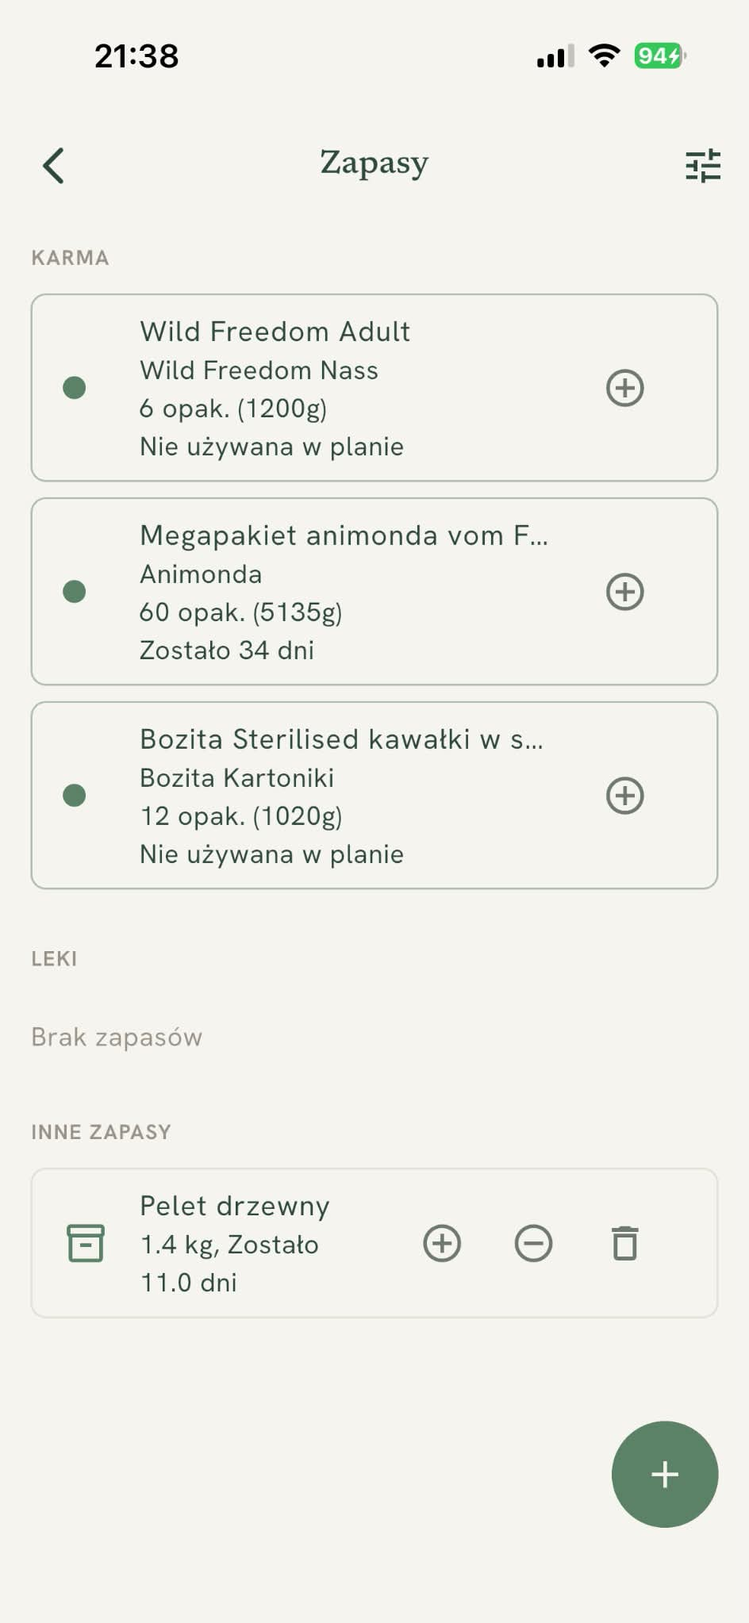
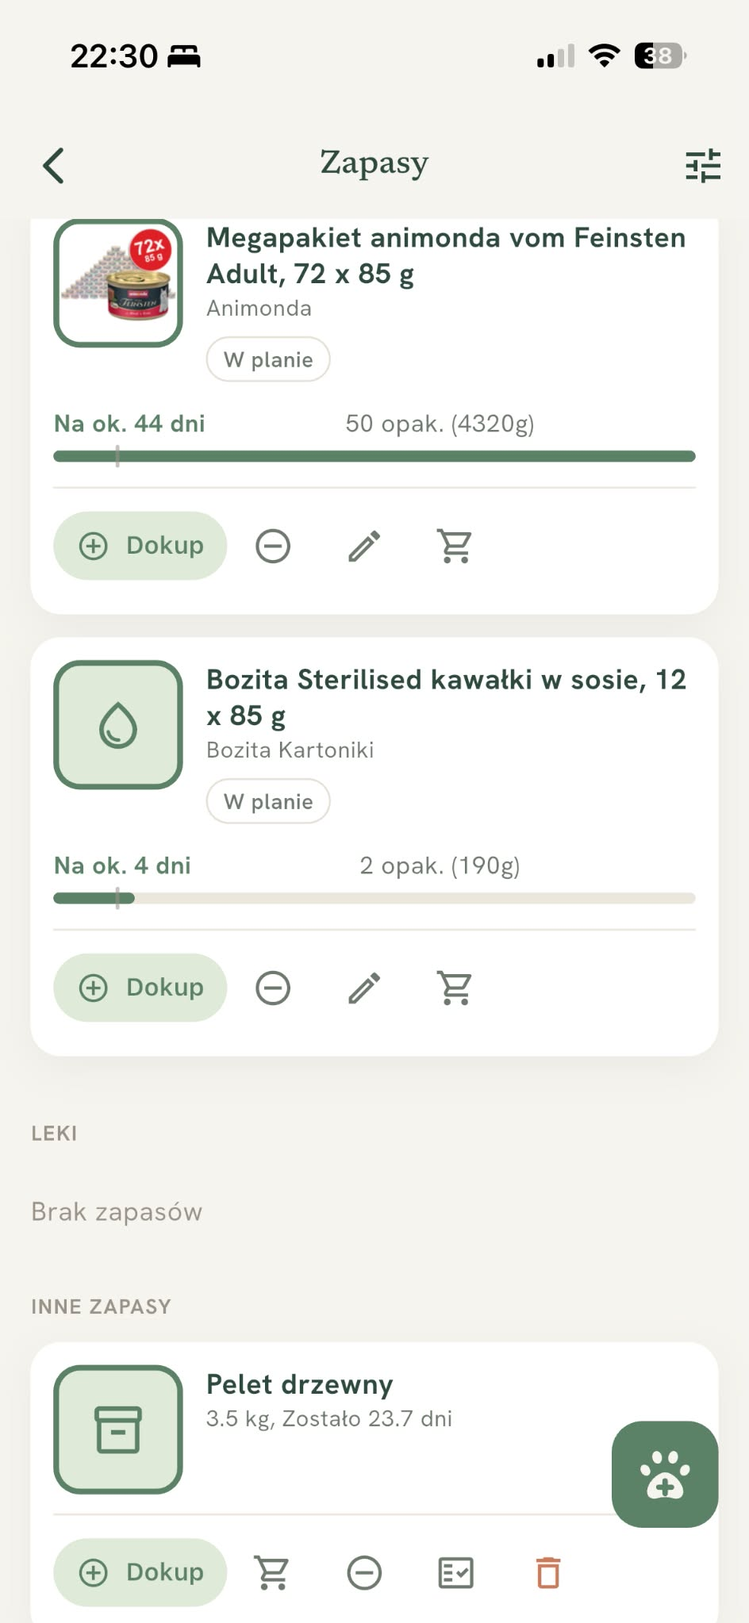
feat: strona główna: nowe teksty kafli i sytuacji, tropy łapek wzdłuż strony, Czesia od kociaka, nowy zrzut zapasów

diff --git a/index.html b/index.html
@@ -236,7 +236,7 @@
       position: absolute; left: var(--x); top: var(--y); width: 30px; height: 30px;
       background: url('assets/paw.webp') center / contain no-repeat;
       transform: translate(-50%, -50%) rotate(var(--r)); scale: .8; opacity: 0;
-      animation: paw-step 11s ease-in-out infinite; animation-delay: calc(var(--i) * .55s);
+      animation: paw-step var(--dur, 11s) ease-in-out infinite; animation-delay: calc(var(--i) * .55s + var(--off, 0s));
     }
     @keyframes paw-step {
       0% { opacity: 0; scale: .8; }
@@ -245,6 +245,24 @@
       66%, 100% { opacity: 0; scale: 1; }
     }
     .cta-final .paw-trail i { filter: brightness(0) invert(1); --paw-o: .16; }
+    /* Tropy wzdłuż strony: zwierzę schodzi w dół razem z czytelnikiem, sekcja po sekcji,
+       raz lewym, raz prawym marginesem. Ślady rysuje skrypt na dole strony (zależą od wysokości
+       sekcji), a każdy odcinek rusza dopiero, gdy jego sekcja wjedzie w kadr. Drugi trop idzie
+       przeciwnym marginesem z opóźnieniem. Tylko tam, gdzie margines obok treści ma co najmniej
+       110 px (z prawej liczony bez paska ikon), więc nigdy nie wchodzą pod tekst. */
+    .side-trails { inset: auto 0 auto 0; z-index: 0; }
+    /* Gdzie chodzą tropy, stały wzór łapek znika: ta sama akwarela w obu warstwach zlewała się
+       w jedno i animacji nie było widać. Węższe okna (bez tropów) zostają przy wzorze. */
+    body.has-trails { background: var(--bg); }
+    .side-trails .seg:not(.go) i { animation-play-state: paused; }
+    .side-trails i { width: 36px; height: 36px; --paw-o: .72; animation-name: paw-step-long; }
+    /* Wzdłuż strony ślad stoi dłużej niż w hero, więc naraz widać prawie cały odcinek. */
+    @keyframes paw-step-long {
+      0% { opacity: 0; scale: .8; }
+      4% { opacity: var(--paw-o, .55); scale: 1; }
+      78% { opacity: var(--paw-o, .55); scale: 1; }
+      90%, 100% { opacity: 0; scale: 1; }
+    }
 
     /* ---------- sytuacje ---------- */
     .sit-grid { display: grid; grid-template-columns: repeat(2, 1fr); gap: 18px; }
@@ -317,7 +335,9 @@
 
     /* ---------- od twórcy ---------- */
     .founder { display: grid; grid-template-columns: 280px 1fr; gap: 44px; align-items: center; background: #fff; border: 1px solid #E6E1D6; border-radius: 24px; padding: 36px 40px; }
-    .founder figure img { display: block; width: 100%; height: auto; border-radius: 18px; transform: rotate(-2.5deg); box-shadow: 0 16px 40px rgba(45,74,62,.18); }
+    .founder-photos { position: relative; aspect-ratio: 4 / 5; border-radius: 18px; overflow: hidden; transform: rotate(-2.5deg); box-shadow: 0 16px 40px rgba(45,74,62,.18); }
+    .founder-photos img { position: absolute; inset: 0; width: 100%; height: 100%; object-fit: cover; opacity: 0; transition: opacity 1.2s ease; }
+    .founder-photos img.active { opacity: 1; }
     .founder figcaption { text-align: center; font-size: .84rem; color: var(--muted); font-style: italic; margin-top: 14px; }
     .founder h2 { font-size: 1.8rem; color: var(--green-dark); letter-spacing: -.4px; margin-bottom: 14px; }
     .founder p { font-size: 1.02rem; margin-bottom: 12px; }
@@ -481,6 +501,9 @@
       <g id="i-lungs" fill="none" stroke-width="2" stroke-linecap="round" stroke-linejoin="round"><path d="M12 3v7"/><path d="M12 10c-1.3 0-1.8-1-3.2-1C6.5 9 5 11 5 14.5 5 18 6.5 20 8.5 20c1 0 1.5-.5 2-1.5.5-1 .5-2 .5-3.5V10z"/><path d="M12 10c1.3 0 1.8-1 3.2-1 2.3 0 3.8 2 3.8 5.5 0 3.5-1.5 5.5-3.5 5.5-1 0-1.5-.5-2-1.5-.5-1-.5-2-.5-3.5V10z"/></g>
       <g id="i-phone2" fill="none" stroke-width="2" stroke-linecap="round" stroke-linejoin="round"><rect x="7" y="3" width="10" height="18" rx="2"/><path d="M11 18h2"/></g>
       <g id="i-check" fill="none" stroke-width="2.4" stroke-linecap="round" stroke-linejoin="round"><path d="M5 12l4 4 10-10"/></g>
+      <g id="i-phone" fill="none" stroke-width="2" stroke-linecap="round" stroke-linejoin="round"><path d="M5 4h4l2 5-2.5 1.5a11 11 0 0 0 5 5L15 13l5 2v4a2 2 0 0 1-2 2A16 16 0 0 1 3 6a2 2 0 0 1 2-2z"/></g>
+      <g id="i-wallet" fill="none" stroke-width="2" stroke-linecap="round" stroke-linejoin="round"><rect x="3" y="6" width="18" height="13" rx="2"/><path d="M3 10h18M16 14.5h2"/></g>
+      <g id="i-scissors" fill="none" stroke-width="2" stroke-linecap="round" stroke-linejoin="round"><circle cx="6" cy="6" r="3"/><circle cx="6" cy="18" r="3"/><path d="M8.1 8.1L20 20M8.1 15.9L20 4"/></g>
       <g id="i-alert" fill="none" stroke-width="2" stroke-linecap="round" stroke-linejoin="round"><path d="M12 4l9 16H3z"/><path d="M12 10v4M12 17h.01"/></g>
       <g id="i-wifi-off" fill="none" stroke-width="2" stroke-linecap="round" stroke-linejoin="round"><path d="M3 3l18 18M9 17a4 4 0 0 1 6 0M5.5 12.5a9 9 0 0 1 5-2.4M18.5 12.5a9 9 0 0 0-3-2"/></g>
       <g id="i-cal" fill="none" stroke-width="2" stroke-linecap="round" stroke-linejoin="round"><rect x="4" y="5" width="16" height="16" rx="2"/><path d="M8 3v4M16 3v4M4 11h16"/></g>
@@ -580,8 +603,8 @@
         <div class="phone-float">
           <div class="phone">
             <div class="screens" id="hero-screens">
-              <img data-screen="today" class="active pl" src="screens/pl-today.webp" alt="ApkaŁapka: panel Dziś" fetchpriority="high" width="600" height="1300" />
-              <img data-screen="today" class="active en" src="screens/en-today.webp" alt="ApkaŁapka: Today panel" loading="lazy" width="600" height="1300" />
+              <img data-screen="today" class="active pl" src="screens/pl-today.webp" alt="ApkaŁapka: pulpit" fetchpriority="high" width="600" height="1300" />
+              <img data-screen="today" class="active en" src="screens/en-today.webp" alt="ApkaŁapka: home screen" loading="lazy" width="600" height="1300" />
               <img data-screen="litter" class="pl" src="screens/pl-litter.webp" alt="ApkaŁapka: dziennik kuwety" loading="lazy" width="600" height="1300" />
               <img data-screen="litter" class="en" src="screens/pl-litter.webp" alt="ApkaŁapka: litter box log" loading="lazy" width="600" height="1300" />
               <img data-screen="hydration" class="pl" src="screens/pl-hydration.webp" alt="ApkaŁapka: nawodnienie" loading="lazy" width="600" height="1300" />
@@ -612,8 +635,8 @@
   <main>
     <!-- SYTUACJE: prawdziwe pytania opiekuna i to, co na nie odpowiada aplikacja.
          Każde twierdzenie sprawdzone w PetPetumMobile/.claude/features/ (2026-10-11):
-         hydration.md (norma z 14 dni), food-stock.md + supplies.md, litter_box.md (18 h, krew),
-         pdf_report.md (premium, 1 raport za darmo). Zmieniasz zdanie? Sprawdź je tam ponownie. -->
+         hydration.md (norma z 14 dni), food-stock.md + supplies.md, litter_box.md (ostatnie siusiu, norma, karty „Warto sprawdzić”),
+         pdf_report.md (sekcje, okres 3 mies.–cała historia, premium, 1 raport za darmo). Zmieniasz zdanie? Sprawdź je tam ponownie. -->
     <section id="sytuacje">
       <div class="section-head reveal">
         <h2><span class="pl">Kiedy ApkaŁapka się przydaje</span><span class="en">When ApkaŁapka comes in handy</span></h2>
@@ -627,18 +650,18 @@
         </article>
         <article class="sit-card reveal">
           <span class="sit-ic"><svg viewBox="0 0 24 24"><use href="#i-bowl"/></svg></span>
-          <p class="sit-q"><span class="pl">„Na ile jeszcze starczy tej karmy?”</span><span class="en">“How long will this bag of food last?”</span></p>
-          <p class="sit-a"><span class="pl"><b>ApkaŁapka</b> odejmuje każdą porcję od zapasu, pokazuje, na ile dni wystarczy, i przypomina o zakupie, zanim worek się skończy. Żwirek i leki liczy tak samo.</span><span class="en"><b>ApkaŁapka</b> takes every portion off the stock, shows how many days it will last and reminds you to buy more before the bag runs out. Litter and meds work the same way.</span></p>
+          <p class="sit-q"><span class="pl">„Na ile starczy karmy?”</span><span class="en">“How long will the food last?”</span></p>
+          <p class="sit-a"><span class="pl"><b>ApkaŁapka</b> liczy każdą porcję, pokazuje, na ile dni jeszcze wystarczy karmy, i przypomina o zakupie, zanim zapas się skończy. Żwirek i leki liczy tak samo.</span><span class="en"><b>ApkaŁapka</b> counts every portion, shows how many days of food are left and reminds you to buy more before the stock runs out. Litter and meds work the same way.</span></p>
         </article>
         <article class="sit-card reveal">
           <span class="sit-ic"><svg viewBox="0 0 24 24"><use href="#i-litter"/></svg></span>
-          <p class="sit-q"><span class="pl">„Czy kot dziś w ogóle sikał?”</span><span class="en">“Has the cat peed at all today?”</span></p>
-          <p class="sit-a"><span class="pl"><b>ApkaŁapka</b> zapisuje siusiu i kupę osobno i pokazuje tydzień obok normy Twojego kota. Ostrzega, gdy od 18 godzin nie było siusiu albo gdy we wpisie pojawi się krew.</span><span class="en"><b>ApkaŁapka</b> logs pee and poop separately and shows the week next to your cat's own normal. It warns you when there has been no pee for 18 hours or when an entry mentions blood.</span></p>
+          <p class="sit-q"><span class="pl">„Czy kot dziś w ogóle korzystał z kuwety?”</span><span class="en">“Has the cat used the litter box at all today?”</span></p>
+          <p class="sit-a"><span class="pl">Wpisujesz kuwetę przy sprzątaniu, a <b>ApkaŁapka</b> pokazuje, kiedy było ostatnie siusiu i ostatnia kupa. Z wpisów liczy normę Twojego kota i daje znać, gdy coś od niej odbiega: mniej siusiu niż zwykle, luźne stolce albo długa przerwa bez kupy.</span><span class="en">You log the litter box when you scoop, and <b>ApkaŁapka</b> shows when the last pee and the last poop were. From your entries it works out your cat's normal and lets you know when something drifts from it: fewer pees than usual, loose stools or a long gap without poop.</span></p>
         </article>
         <article class="sit-card reveal">
           <span class="sit-ic"><svg viewBox="0 0 24 24"><use href="#i-doc"/></svg></span>
           <p class="sit-q"><span class="pl">„A jak zmieniała się waga przez ostatni rok?”</span><span class="en">“And how has the weight changed over the past year?”</span></p>
-          <p class="sit-a"><span class="pl"><b>ApkaŁapka</b> składa raport dla weterynarza: waga, leki, szczepienia, odrobaczanie i wyniki badań z wybranego okresu. Zabierasz go na wizytę albo wysyłasz przed nią.</span><span class="en"><b>ApkaŁapka</b> puts together a vet report: weight, meds, vaccinations, deworming and lab results from the period you choose. Take it to the visit or send it ahead.</span></p>
+          <p class="sit-a"><span class="pl"><b>ApkaŁapka</b> tworzy raport dla weterynarza ze wszystkim, o co lekarz pyta na wizycie: waga i jej zmiany, leki, szczepienia, odrobaczanie, objawy i wyniki badań. Okres wybierasz sam, od 3 miesięcy po całą historię.</span><span class="en"><b>ApkaŁapka</b> creates a vet report with everything the vet asks about: weight and how it changed, meds, vaccinations, deworming, symptoms and lab results. You choose the period, from 3 months to the full history.</span></p>
           <span class="chip-premium"><span class="pl">Premium · pierwszy raport za darmo</span><span class="en">Premium · first report free</span></span>
         </article>
       </div>
@@ -659,8 +682,8 @@
         <div class="tiles">
           <div class="tile active reveal" data-screen="today">
             <span class="ic"><svg viewBox="0 0 24 24"><use href="#i-journal"/></svg></span>
-            <h3><span class="pl">Panel Dziś</span><span class="en">Today panel</span></h3>
-            <p><span class="pl">Posiłki, picie, leki, waga i nastrój na jednym ekranie. Kafle układasz sam.</span><span class="en">Meals, drinking, meds, weight and mood on one screen. You arrange the tiles.</span></p>
+            <h3><span class="pl">Pulpit</span><span class="en">Home screen</span></h3>
+            <p><span class="pl">Układasz go po swojemu. Na górze to, co sprawdzasz codziennie: posiłki, picie, kuweta, leki, waga, aktywność albo nastrój. Niżej skróty do czego chcesz: wizyty, szczepienia, odrobaczanie, pielęgnacja, wydatki, badania, temperatura, cykl rui i inne, w dowolnej kolejności.</span><span class="en">Set it up your way. Up top, what you check every day: meals, drinking, litter box, meds, weight, activity or mood. Below, shortcuts to anything you like: visits, vaccinations, deworming, grooming, expenses, lab results, temperature, heat cycle and more, in any order.</span></p>
             <img class="inline-shot pl" src="screens/pl-today.webp" alt="" loading="lazy" width="600" height="1300" />
             <img class="inline-shot en" src="screens/en-today.webp" alt="" loading="lazy" width="600" height="1300" />
             <span class="prog" aria-hidden="true"></span>
@@ -668,7 +691,7 @@
           <div class="tile reveal" data-screen="reminders">
             <span class="ic"><svg viewBox="0 0 24 24"><use href="#i-bell"/></svg></span>
             <h3><span class="pl">Przypomnienia</span><span class="en">Reminders</span></h3>
-            <p><span class="pl">Szczepienia, odrobaczanie, wizyty i leki. Działają też po restarcie telefonu.</span><span class="en">Vaccinations, deworming, visits and meds. They survive a phone reboot.</span></p>
+            <p><span class="pl">Szczepienia, odrobaczanie, wizyty, leki, posiłki, pielęgnacja i ważenie. Sam ustawiasz, ile dni wcześniej, a z powiadomienia odhaczasz jednym dotknięciem.</span><span class="en">Vaccinations, deworming, vet visits, meds, meals, grooming and weigh-ins. You choose how many days ahead, and tick it off straight from the notification.</span></p>
             <img class="inline-shot pl" src="screens/pl-reminders.webp" alt="" loading="lazy" width="600" height="1300" />
             <img class="inline-shot en" src="screens/en-reminders.webp" alt="" loading="lazy" width="600" height="1300" />
             <span class="prog" aria-hidden="true"></span>
@@ -676,7 +699,7 @@
           <div class="tile reveal" data-screen="calendar">
             <span class="ic"><svg viewBox="0 0 24 24"><use href="#i-cal"/></svg></span>
             <h3><span class="pl">Kalendarz opieki</span><span class="en">Care calendar</span></h3>
-            <p><span class="pl">Wszystkie terminy w jednym widoku miesiąca. Wpis otwiera szczegóły.</span><span class="en">Every date in one month view. An entry opens the details.</span></p>
+            <p><span class="pl">Miesiąc z zaznaczonymi wizytami, szczepieniami i odrobaczaniem. Dotykasz dnia i widzisz jego plan: karmienia, leki, pielęgnację, przy kilku pupilach dla wszystkich naraz.</span><span class="en">A month view with vet visits, vaccinations and deworming marked. Tap a day to see its plan: feedings, meds, grooming, for all your pets at once.</span></p>
             <img class="inline-shot pl" src="screens/pl-calendar.webp" alt="" loading="lazy" width="600" height="1300" />
             <img class="inline-shot en" src="screens/en-calendar.webp" alt="" loading="lazy" width="600" height="1300" />
             <span class="prog" aria-hidden="true"></span>
@@ -684,7 +707,7 @@
           <div class="tile reveal" data-screen="meal">
             <span class="ic"><svg viewBox="0 0 24 24"><use href="#i-bowl"/></svg></span>
             <h3><span class="pl">Planer posiłków</span><span class="en">Meal planner</span></h3>
-            <p><span class="pl">Porcje i kalorie dopasowane do pupila, karmienie odhaczane na bieżąco.</span><span class="en">Portions and calories tailored to your pet, feedings ticked off as they happen.</span></p>
+            <p><span class="pl">Liczy, ile kalorii dziennie potrzebuje pupil, i rozkłada je na posiłki w gramach Twojej karmy. Odhaczasz karmienie, a zapas karmy schodzi sam.</span><span class="en">Works out how many calories your pet needs a day and splits them into meals, in grams of your own food. Tick off a feeding and the food stock goes down by itself.</span></p>
             <img class="inline-shot pl" src="screens/pl-meal.webp" alt="" loading="lazy" width="600" height="1300" />
             <img class="inline-shot en" src="screens/en-meal.webp" alt="" loading="lazy" width="600" height="1300" />
             <span class="prog" aria-hidden="true"></span>
@@ -692,7 +715,7 @@
           <div class="tile reveal" data-screen="litter">
             <span class="ic"><svg viewBox="0 0 24 24"><use href="#i-litter"/></svg></span>
             <h3><span class="pl">Kuweta</span><span class="en">Litter box</span></h3>
-            <p><span class="pl">Siusiu i kupa osobno, tydzień obok normy kota i ostrzeżenie, gdy coś odbiega.</span><span class="en">Pee and poop logged separately, the week next to your cat's normal and a warning when something is off.</span></p>
+            <p><span class="pl">Zapisujesz, ile razy kot sikał i ile razy zrobił kupę, a gdy coś było nie tak, dopisujesz szczegóły. ApkaŁapka pokazuje cały tydzień i daje znać, gdy coś odbiega od normy Twojego kota.</span><span class="en">Log how many times your cat peed and pooped, and add details when something was off. ApkaŁapka shows the whole week and lets you know when something drifts from your cat's normal.</span></p>
             <img class="inline-shot pl" src="screens/pl-litter.webp" alt="" loading="lazy" width="600" height="1300" />
             <img class="inline-shot en" src="screens/pl-litter.webp" alt="" loading="lazy" width="600" height="1300" />
             <span class="prog" aria-hidden="true"></span>
@@ -700,7 +723,7 @@
           <div class="tile reveal" data-screen="hydration">
             <span class="ic"><svg viewBox="0 0 24 24"><use href="#i-drop"/></svg></span>
             <h3><span class="pl">Nawodnienie</span><span class="en">Hydration</span></h3>
-            <p><span class="pl">Na oko albo z miski w ml, obok normy pupila z ostatnich dwóch tygodni.</span><span class="en">By eye or measured from the bowl in ml, next to your pet's own normal from the last two weeks.</span></p>
+            <p><span class="pl">Zapisujesz, ile pupil pił: na oko albo dokładnie, w mililitrach z miski. ApkaŁapka porównuje to z jego zwykłym piciem i mówi, kiedy pije wyraźnie więcej albo mniej.</span><span class="en">Log how much your pet drank: by eye, or exactly in ml from the bowl. ApkaŁapka compares it with their usual drinking and tells you when they drink clearly more or less.</span></p>
             <img class="inline-shot pl" src="screens/pl-hydration.webp" alt="" loading="lazy" width="600" height="1300" />
             <img class="inline-shot en" src="screens/pl-hydration.webp" alt="" loading="lazy" width="600" height="1300" />
             <span class="prog" aria-hidden="true"></span>
@@ -708,7 +731,7 @@
           <div class="tile reveal" data-screen="supplies">
             <span class="ic"><svg viewBox="0 0 24 24"><use href="#i-box"/></svg></span>
             <h3><span class="pl">Zapasy</span><span class="en">Supplies</span></h3>
-            <p><span class="pl">Karma, żwirek i leki z ostrzeżeniem, zanim się skończą.</span><span class="en">Food, litter and meds with a heads-up before they run out.</span></p>
+            <p><span class="pl">Karma, leki, żwirek i wszystko, co kupujesz regularnie. Widzisz, na ile dni starczy, i dostajesz przypomnienie o zakupie z wyprzedzeniem.</span><span class="en">Food, meds, litter and anything else you buy regularly. See how many days each will last and get a reminder to restock in time.</span></p>
             <img class="inline-shot pl" src="screens/pl-supplies.webp" alt="" loading="lazy" width="600" height="1300" />
             <img class="inline-shot en" src="screens/en-supplies.webp" alt="" loading="lazy" width="600" height="1300" />
             <span class="prog" aria-hidden="true"></span>
@@ -716,7 +739,7 @@
           <div class="tile reveal" data-screen="weight">
             <span class="ic"><svg viewBox="0 0 24 24"><use href="#i-chart"/></svg></span>
             <h3><span class="pl">Waga i trendy</span><span class="en">Weight &amp; trends</span></h3>
-            <p><span class="pl">Wykres wagi z normą dla rasy i podpowiedzią, czy waga jest idealna.</span><span class="en">A weight chart with breed reference ranges and a hint whether the weight is ideal.</span></p>
+            <p><span class="pl">Wykres wagi z wagą docelową, ocena sylwetki w skali 1-9, a u pupili rasowych porównanie z wzorcem rasy.</span><span class="en">A weight chart with a target weight, a 1-9 body condition score and, for purebred pets, a comparison with the breed standard.</span></p>
             <img class="inline-shot pl" src="screens/pl-weight.webp" alt="" loading="lazy" width="600" height="1300" />
             <img class="inline-shot en" src="screens/en-weight.webp" alt="" loading="lazy" width="600" height="1300" />
             <span class="prog" aria-hidden="true"></span>
@@ -725,7 +748,7 @@
             <span class="badge-premium">Premium</span>
             <span class="ic"><svg viewBox="0 0 24 24"><use href="#i-flask"/></svg></span>
             <h3><span class="pl">Wyniki badań</span><span class="en">Lab results</span></h3>
-            <p><span class="pl">Parametry z zakresami z Twojego wyniku i wykres zmian w czasie.</span><span class="en">Parameters with the ranges from your own result and a chart of changes over time.</span></p>
+            <p><span class="pl">Robisz zdjęcie kartki z laboratorium, a ApkaŁapka odczytuje wyniki. Każdy parametr widzisz na tle normy dla psa albo kota i na wykresie zmian od poprzednich badań.</span><span class="en">Snap the lab printout and ApkaŁapka reads the results. Each value is shown against the normal range for dogs or cats, with a chart of how it changed since earlier tests.</span></p>
             <img class="inline-shot pl" src="screens/bloodtests.webp" alt="" loading="lazy" width="600" height="1300" />
             <img class="inline-shot en" src="screens/bloodtests.webp" alt="" loading="lazy" width="600" height="1300" />
             <span class="prog" aria-hidden="true"></span>
@@ -734,7 +757,7 @@
             <span class="badge-premium">Premium</span>
             <span class="ic"><svg viewBox="0 0 24 24"><use href="#i-pulse"/></svg></span>
             <h3><span class="pl">Analiza zdrowia</span><span class="en">Health analysis</span></h3>
-            <p><span class="pl">Oś czasu i wykresy: widać, co działo się między wizytami.</span><span class="en">A timeline and charts that show what happened between visits.</span></p>
+            <p><span class="pl">Jeden ekran, który mówi, czym się zająć: zaległe szczepienie, kończący się lek, nagła zmiana wagi. Do tego analiza żywienia: kalorie, przysmaki, regularność posiłków i to, czy dieta jest pełnowartościowa. Pod spodem cała historia zdrowia pupila na jednej osi czasu.</span><span class="en">One screen that tells you what needs attention: an overdue vaccination, meds running low, a sudden weight change. Plus a nutrition analysis: calories, treats, meal regularity and whether the diet is complete. Below, your pet's whole health history on one timeline.</span></p>
             <img class="inline-shot pl" src="screens/health.webp" alt="" loading="lazy" width="600" height="1300" />
             <img class="inline-shot en" src="screens/health.webp" alt="" loading="lazy" width="600" height="1300" />
             <span class="prog" aria-hidden="true"></span>
@@ -743,7 +766,7 @@
             <span class="badge-premium">Premium</span>
             <span class="ic"><svg viewBox="0 0 24 24"><use href="#i-lungs"/></svg></span>
             <h3>Cardio Check</h3>
-            <p><span class="pl">Tempo oddechu w spoczynku, liczone tapnięciami przez 30 sekund.</span><span class="en">Resting breathing rate, counted by tapping for 30 seconds.</span></p>
+            <p><span class="pl">Liczysz oddechy pupila w spoczynku, dotykając ekranu przez 30 sekund. ApkaŁapka podaje tempo na minutę, pokazuje, czy mieści się w normie, i zapisuje historię pomiarów.</span><span class="en">Count your pet's breaths at rest by tapping the screen for 30 seconds. ApkaŁapka gives you the rate per minute, shows whether it is in the normal range and keeps a history.</span></p>
             <img class="inline-shot pl" src="screens/cardio.webp" alt="" loading="lazy" width="600" height="1300" />
             <img class="inline-shot en" src="screens/cardio.webp" alt="" loading="lazy" width="600" height="1300" />
             <span class="prog" aria-hidden="true"></span>
@@ -752,7 +775,7 @@
             <span class="badge-premium">Premium</span>
             <span class="ic"><svg viewBox="0 0 24 24"><use href="#i-doc"/></svg></span>
             <h3><span class="pl">Raport dla weterynarza</span><span class="en">Vet report</span></h3>
-            <p><span class="pl">Wybrane sekcje z wybranego okresu, gotowe do pokazania na wizycie.</span><span class="en">The sections and period you pick, ready to show at the visit.</span></p>
+            <p><span class="pl">Wybierasz okres i to, co ma się znaleźć w środku. Drukujesz go albo pokazujesz weterynarzowi na wizycie.</span><span class="en">Pick the period and what goes inside. Print it or show it to your vet at the visit.</span></p>
             <img class="inline-shot pl" src="screens/report.webp" alt="" loading="lazy" width="600" height="1300" />
             <img class="inline-shot en" src="screens/report.webp" alt="" loading="lazy" width="600" height="1300" />
             <span class="prog" aria-hidden="true"></span>
@@ -762,8 +785,8 @@
         <div class="phone-wrap">
           <div class="phone">
             <div class="screens">
-              <img data-screen="today" class="active pl" src="screens/pl-today.webp" alt="ApkaŁapka: panel Dziś" loading="lazy" width="600" height="1300" />
-              <img data-screen="today" class="active en" src="screens/en-today.webp" alt="ApkaŁapka: Today panel" loading="lazy" width="600" height="1300" />
+              <img data-screen="today" class="active pl" src="screens/pl-today.webp" alt="ApkaŁapka: pulpit" loading="lazy" width="600" height="1300" />
+              <img data-screen="today" class="active en" src="screens/en-today.webp" alt="ApkaŁapka: home screen" loading="lazy" width="600" height="1300" />
               <img data-screen="reminders" class="pl" src="screens/pl-reminders.webp" alt="ApkaŁapka: przypomnienia" loading="lazy" width="600" height="1300" />
               <img data-screen="reminders" class="en" src="screens/en-reminders.webp" alt="ApkaŁapka: reminders" loading="lazy" width="600" height="1300" />
               <img data-screen="calendar" class="pl" src="screens/pl-calendar.webp" alt="ApkaŁapka: kalendarz" loading="lazy" width="600" height="1300" />
@@ -797,7 +820,10 @@
         <span class="more-chip"><svg viewBox="0 0 24 24"><use href="#i-syringe"/></svg><span class="pl">Podpowiedzi szczepień (WSAVA)</span><span class="en">Vaccine suggestions (WSAVA)</span></span>
         <span class="more-chip"><svg viewBox="0 0 24 24"><use href="#i-share"/></svg><span class="pl">Udostępnianie rodzinie i weterynarzowi</span><span class="en">Sharing with family &amp; your vet</span></span>
         <span class="more-chip"><svg viewBox="0 0 24 24"><use href="#i-cross"/></svg><span class="pl">Karta opiekuna</span><span class="en">Pet sitter card</span></span>
-        <span class="more-chip"><svg viewBox="0 0 24 24"><use href="#i-lock"/></svg><span class="pl">Eksport i usuwanie danych (RODO)</span><span class="en">Data export &amp; deletion (GDPR)</span></span>
+        <span class="more-chip"><svg viewBox="0 0 24 24"><use href="#i-phone"/></svg><span class="pl">SOS: telefon do dyżurnego weterynarza i pierwsza pomoc</span><span class="en">SOS: one tap to your emergency vet, plus first aid</span></span>
+        <span class="more-chip"><svg viewBox="0 0 24 24"><use href="#i-wallet"/></svg><span class="pl">Wydatki na pupila</span><span class="en">Pet expenses</span></span>
+        <span class="more-chip"><svg viewBox="0 0 24 24"><use href="#i-scissors"/></svg><span class="pl">Pielęgnacja: zęby, pazury, kąpiel, czesanie</span><span class="en">Grooming: teeth, claws, baths, brushing</span></span>
+        <span class="more-chip"><svg viewBox="0 0 24 24"><use href="#i-shield"/></svg><span class="pl">Ubezpieczenie pupila</span><span class="en">Pet insurance</span></span>
       </div>
     </section>
 
@@ -855,15 +881,23 @@
     <section id="od-tworcy">
       <div class="founder reveal">
         <figure>
-          <img src="assets/czesia.webp" alt="Czesia, kot twórcy ApkaŁapki" loading="lazy" width="560" height="700" />
+          <!-- Czesia od kociaka do dziś: zdjęcia przenikają się co kilka sekund, ostatnie to obecne.
+               Źródła w ApkaLapkaMarketing/Media/Czesia: mrugacz (bez brody u góry), spi_z_lapkami,
+               głodzilla (bez klapka z logo), Czesia_profil. Przy prefers-reduced-motion stoi obecne. -->
+          <div class="founder-photos" id="founder-photos">
+            <img src="assets/czesia-kociak-1.webp" alt="Czesia jako kociak" loading="lazy" width="560" height="700" />
+            <img src="assets/czesia-kociak-2.webp" alt="Czesia jako kociak, śpi z łapkami w górze" loading="lazy" width="560" height="700" />
+            <img src="assets/czesia-kociak-3.webp" alt="Mała Czesia stoi na tylnych łapach" loading="lazy" width="560" height="700" />
+            <img class="active" src="assets/czesia.webp" alt="Czesia dziś, kot twórcy ApkaŁapki" loading="lazy" width="560" height="700" />
+          </div>
           <figcaption><span class="pl">Czesia, pierwsza użytkowniczka</span><span class="en">Czesia, the very first user</span></figcaption>
         </figure>
         <div>
           <h2><span class="pl">Dlaczego powstała ApkaŁapka</span><span class="en">Why ApkaŁapka exists</span></h2>
-          <p class="pl">ApkaŁapkę zrobiłem dla Czesi. Chciałem mieć wszystko pod ręką: wiedzieć, co i ile je, kiedy skończy się karma i żwirek, i mieć gotowe odpowiedzi, kiedy weterynarz pyta o ostatnie tygodnie. Karteczki i notatki w telefonie tego nie ogarniały, więc napisałem aplikację, której sam potrzebowałem.</p>
-          <p class="en">I built ApkaŁapka for Czesia, my cat. I wanted everything at hand: what she eats and how much, when the food and litter will run out, and ready answers when the vet asks about the past few weeks. Sticky notes and phone notes couldn't keep up, so I wrote the app I needed myself.</p>
-          <p class="pl">Dziś korzystają z niej też inni opiekunowie psów i kotów, a ich uwagi trafiają do kolejnych wersji. Czegoś Ci brakuje? Napisz: <a href="mailto:apkalapka.support@gmail.com">apkalapka.support@gmail.com</a>.</p>
-          <p class="en">Today other dog and cat owners use it too, and their feedback goes into new versions. Missing something? Write to <a href="mailto:apkalapka.support@gmail.com">apkalapka.support@gmail.com</a>.</p>
+          <p class="pl">ApkaŁapkę zrobiłem dla Czesi. Chciałem mieć wszystko pod ręką i wiedzieć, co, ile i kiedy. Teraz wiem, kiedy skończy się karma i żwirek, a na wizycie mam gotowe odpowiedzi dla weterynarza. Bez stresu i bez szukania dokumentów, paragonów, zdjęć i karteczek. Notatki i kalendarz w telefonie tego nie ogarniały, więc napisałem aplikację, której sam potrzebowałem.</p>
+          <p class="en">I built ApkaŁapka for Czesia, my cat. I wanted everything at hand and to know what, how much and when. Now I know when the food and litter will run out, and at the vet I have the answers ready. No stress, no digging for documents, receipts, photos and sticky notes. Phone notes and calendar couldn't keep up, so I wrote the app I needed myself.</p>
+          <p class="pl">Dziś korzystają z niej opiekunowie psów i kotów. Czytam każdą wiadomość, a ich uwagi pomagają mi ulepszać kolejne wersje. Czegoś Ci brakuje? Napisz do mnie: <a href="mailto:apkalapka.support@gmail.com">apkalapka.support@gmail.com</a></p>
+          <p class="en">Today dog and cat owners use it too. I read every message, and their feedback helps me make each version better. Missing something? Write to me: <a href="mailto:apkalapka.support@gmail.com">apkalapka.support@gmail.com</a></p>
           <p class="sign"><span class="pl">Mateusz, twórca ApkaŁapki</span><span class="en">Mateusz, maker of ApkaŁapka</span></p>
         </div>
       </div>
@@ -1160,6 +1194,71 @@
           }, { threshold: 0.35 }).observe(wrap);
         }
       }
+
+      /* Czesia od kociaka do dziś */
+      var fp = document.getElementById('founder-photos');
+      if (fp && !window.matchMedia('(prefers-reduced-motion: reduce)').matches) {
+        var fImgs = fp.querySelectorAll('img'), fIdx = fImgs.length - 1, fTimer = null;
+        function fNext() { fImgs[fIdx].classList.remove('active'); fIdx = (fIdx + 1) % fImgs.length; fImgs[fIdx].classList.add('active'); }
+        if ('IntersectionObserver' in window) {
+          new IntersectionObserver(function (en) {
+            if (en[0].isIntersecting && !fTimer) { fImgs.forEach(function (im) { im.loading = 'eager'; }); fTimer = setInterval(fNext, 3500); }
+            else if (!en[0].isIntersecting && fTimer) { clearInterval(fTimer); fTimer = null; }
+          }, { threshold: 0.3 }).observe(fp);
+        }
+      }
+
+      /* tropy wzdłuż strony */
+      var mainEl = document.querySelector('main');
+      var trailSecs = Array.prototype.slice.call(document.querySelectorAll('main > section:not(#download)'));
+      var trails = document.createElement('div');
+      trails.className = 'paw-trail side-trails'; trails.setAttribute('aria-hidden', 'true');
+      document.body.appendChild(trails);
+      var trailObs = 'IntersectionObserver' in window ? new IntersectionObserver(function (entries) {
+        entries.forEach(function (e) { if (e.isIntersecting) { e.target._segs.forEach(function (g) { g.classList.add('go'); }); trailObs.unobserve(e.target); } });
+      }, { threshold: 0.15 }) : null;
+      function drawTrails() {
+        trails.innerHTML = '';
+        var W = document.documentElement.clientWidth;
+        var gut = mainEl.getBoundingClientRect().left + 24; /* main ma padding 24 px */
+        var on = gut >= 110;
+        document.body.classList.toggle('has-trails', on);
+        trails.style.display = on ? '' : 'none';
+        if (!on) return;
+        var top0 = mainEl.getBoundingClientRect().top + window.scrollY;
+        trails.style.top = top0 + 'px'; trails.style.height = mainEl.offsetHeight + 'px';
+        var step = 54, rail = 70; /* pasek ikon po prawej zajmuje ok. 70 px */
+        var sides = [{ cx: gut / 2, w: gut }];
+        if (gut - rail >= 110) sides.push({ cx: W - rail - (gut - rail) / 2, w: gut - rail });
+        trailSecs.forEach(function (sec, si) {
+          var st = sec.getBoundingClientRect().top + window.scrollY - top0;
+          var y0 = st + 30, y1 = st + sec.offsetHeight - 10; /* odcinki stykają się, trop idzie bez przerw */
+          var n = Math.max(4, Math.floor((y1 - y0) / step));
+          var wasGoing = sec._segs && sec._segs[0].classList.contains('go');
+          sec._segs = sides.map(function (side, sd) {
+            var seg = document.createElement('span'), html = '', amp = Math.min(side.w * 0.16, 26);
+            seg.className = 'seg';
+            for (var k = 0; k < n; k++) {
+              var ph = k * 0.45 + si * 1.7 + sd * 2.4, foot = k % 2 ? 1 : -1;
+              var x = side.cx + Math.sin(ph) * amp + foot * 11;
+              var turn = Math.cos(ph) * amp * 0.45 / step * 57.3; /* skręt za krzywą */
+              html += '<i style="--i:' + k + ';--x:' + x.toFixed(1) + 'px;--y:' + (y0 + k * step) +
+                'px;--r:' + (180 - turn + foot * 7).toFixed(0) + 'deg"></i>';
+            }
+            seg.innerHTML = html;
+            seg.style.setProperty('--dur', (n * 0.55 + 4).toFixed(1) + 's');
+            seg.style.setProperty('--off', (sd * 2.2).toFixed(1) + 's');
+            if (wasGoing || !trailObs) seg.classList.add('go');
+            trails.appendChild(seg);
+            return seg;
+          });
+          if (trailObs && !wasGoing) trailObs.observe(sec);
+        });
+      }
+      drawTrails();
+      window.addEventListener('load', drawTrails);
+      var trailTimer;
+      window.addEventListener('resize', function () { clearTimeout(trailTimer); trailTimer = setTimeout(drawTrails, 200); });
 
       /* reveal animation */
       if ('IntersectionObserver' in window) {

diff --git a/.claude/CLAUDE.md b/.claude/CLAUDE.md
@@ -202,24 +202,45 @@ mniej ogólników). Przebudowa po pojawieniu się konkurenta lapaapp.pl: z niego
 układ, **nigdy tekstów ani grafik**.
 
 - **Słowa „PDF” nie używamy** w treści strony (user 2026-10-11): „raport dla weterynarza”.
+- **Copy Sytuacji bez straszenia i bez obiecywania tego, czego aplikacja nie widzi** (user
+  2026-10-12): aplikacja nie wie, czy kot był w kuwecie, wie tylko to, co wpiszesz, więc odpowiedź
+  zaczyna się od wpisu. Nie eksponować alertów o krwi: lepiej „z Twoich wpisów liczy normę i daje
+  znać, gdy coś odbiega”. Bez wydumanych słów („worek”, „składa raport”), pisz tak, jak mówi opiekun.
 - **Sytuacje:** każde zdanie sprawdzone w `PetPetumMobile/.claude/features/` (komentarz w HTML
   podaje pliki). Zmieniasz zdanie albo aplikacja zmieniła działanie → sprawdź ponownie.
 - **Kafle:** plakietka Premium tylko przy tym, co jest w `kPremiumFeatures` (`premium_screen.dart`).
+  Opis kafla mówi, co konkretnie zrobisz i co zobaczysz, z listą rzeczy wziętą z aplikacji (np. Pulpit
+  wymienia kafle do wyboru z `quick_access_customize_screen.dart`). Bez oczywistości w rodzaju „działa
+  po restarcie telefonu” (user 2026-10-12). Kafel nazywa się „Pulpit”, jak zakładka w aplikacji.
   Na desktopie telefon sam przechodzi po kaflach (pasek postępu pod aktywnym), dopóki kursor nie
   wejdzie na siatkę. Na telefonie dotknięcie kafla rozwija jego zrzut.
 - **Opinie:** wyłącznie prawdziwe, cytowane dosłownie ze sklepów, z datą „Stan z”. **Nigdy opinii
   z konta twórcy** (MxaaZx w App Store). Oceny 5,0 / 4,9 są statyczne: aktualizuj je razem z datą
   (też w linii pod przyciskami w hero). Bez `aggregateRating` w JSON-LD.
-- **Od twórcy:** jedyny głos „ja” na stronie głównej. Zdjęcie `assets/czesia.webp` z
-  `Media/Czesia/Czesia_profil.jpeg`.
+- **Od twórcy:** jedyny głos „ja” na stronie głównej (stąd „Napisz do mnie”, nie „do nas”). Tekst
+  podyktowany przez usera 2026-10-12. Zdjęcia przenikają się co 3,5 s od kociaka do dziś
+  (`#founder-photos`, rusza dopiero w kadrze, przy `prefers-reduced-motion` stoi obecne):
+  `czesia-kociak-1` z `mrugacz.jpeg` (wycięta broda człowieka u góry), `-2` z `spi_z_lapkami.jpeg`,
+  `-3` z `głodzilla.jpeg` (wycięty klapek z logo FILA), na koniec `czesia.webp` z `Czesia_profil.jpeg`.
+- **„Też w środku”:** eksport i usuwanie danych (RODO) zdjęte 2026-10-12, bo żyją w FAQ. Doszły SOS,
+  wydatki, pielęgnacja i ubezpieczenie. Pielęgnacja dostanie własny kafel po przebudowie funkcji
+  (backlog aplikacji).
 - **Tropy łapek** (`.paw-trail`): `assets/paw.webp` to pojedyncza łapka wycięta z `hero2.jpeg`
   przepisem z sekcji o tle. W hero idą od kota i psa w prawo, w CTA w górę. Poniżej 880 px ukryte,
   bo w jednej kolumnie weszłyby pod telefon. Przy `prefers-reduced-motion` stoją.
+- **Tropy wzdłuż strony** (`.side-trails`, od 2026-10-12, prośba usera „więcej łapek, też niżej”):
+  skrypt rysuje dla każdej sekcji `main` (bez `#download`) trop schodzący w dół lewym marginesem
+  i drugi, z opóźnieniem, prawym. Odcinki się stykają, więc trop idzie przez całą stronę, krok co 54 px. Odcinek rusza, gdy sekcja wjedzie w kadr. Działa tylko przy
+  marginesie ≥ 110 px (z prawej liczonym bez paska ikon), czyli od ok. 1180 px szerokości.
+  **Tam, gdzie są tropy, stały wzór `page-paws.webp` na stronie głównej znika** (`body.has-trails`):
+  ta sama akwarela w obu warstwach zlewała się i animacji nie było widać. Węższe okna i blog mają
+  wzór jak dawniej.
 - **Telefon w hero** przewija 6 ekranów co 3,2 s (kropki pod spodem), stoi pod kursorem i przy
   `prefers-reduced-motion`.
 - **Zrzuty 2026-10-11** (z `ApkaLapkaMarketing/Media/Aplikacja/nowe/`): nowe `pl-today`, `pl-calendar`,
   `pl-weight`, `pl-litter`, `pl-hydration`. Kuweta i nawodnienie nie mają wersji EN, więc angielska
-  strona pokazuje polski zrzut. Planer, zapasy i przypomnienia zostały stare, bo nowe pokazują marki
-  karm (Bozita, Animonda): decyzja usera, czy kadrować, rozmyć czy zostawić.
+  strona pokazuje polski zrzut. 2026-10-12 doszedł nowy `pl-supplies` z markami karm (Animonda,
+  Bozita) w kadrze: user kazał wrzucić bez kadrowania. `en-supplies` zostaje stary, po angielsku.
+  Planer i przypomnienia nadal stare (nowe też pokazują marki, decyzja usera).
 - Lokalny `jekyll build` nie działa (2026-10-11: brak gemu `eventmachine` po aktualizacji Ruby).
   Podgląd: kopia `index.html` bez bloku Liquid bloga, otwarta z `file://`.
